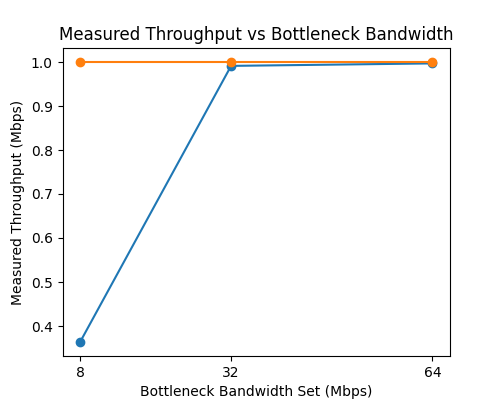
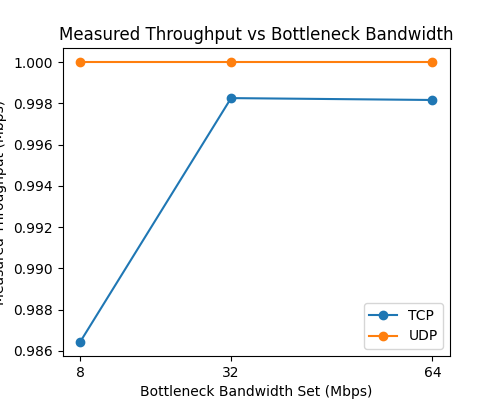
no idea why there is no packet loss

diff --git a/A3/network_bottleneck.py b/A3/network_bottleneck.py
@@ -158,9 +158,9 @@ def run_perf_tests(bw_bottleneck, bw_other):
     h4 = net.get("h4")
 
     # initiliaze a tcp server on the h3 node
-    tcp_server = h3.cmd('sudo python3 server.py -ip 10.0.0.3 -port 5203 &')
+    tcp_server = h3.cmd('sudo python3 server.py -ip 10.0.0.3 -port 5201 &')
     # run the tcp test on the h1 node
-    tcp_test = h1.pexec('sudo python3 client.py -ip 10.0.0.1 -port 5203 -server_ip 10.0.0.3 -test tcp')
+    tcp_test = h1.pexec('sudo python3 client.py -ip 10.0.0.1 -port 5201 -server_ip 10.0.0.3 -test tcp')
 
     # check if an error occured while creating the tcp test
     if tcp_test[2] != 0:
@@ -185,9 +185,10 @@ def run_perf_tests(bw_bottleneck, bw_other):
     
     tcp_file.close()
     # initiliaze a udp server on the h4 node
-    udp_server = h4.cmd('sudo python3 server.py -ip 10.0.0.4 -port 5204 &')
+    udp_server = h4.cmd('sudo python3 server.py -ip 10.0.0.4 -port 5202 &')
     # run the tcp test on the h1 node
-    udp_test = h2.pexec('sudo python3 client.py -ip 10.0.0.2 -port 5204 -server_ip 10.0.0.4 -test udp')
+    udp_test = h2.pexec('sudo python3 client.py -ip 10.0.0.2 -port 5202 -server_ip 10.0.0.4 -test udp')
+    print(udp_test)
     
     # check if an error occured while creating the udp test
     if udp_test[2] != 0:

diff --git a/A3/client.py b/A3/client.py
@@ -37,7 +37,7 @@ def main():
     parser.add_argument("-server_ip", help = "accepts server IP address from command line", required=True)
     parser.add_argument("-test", type=str, help = "accepts type of test client server from command line", required=True)
     ## will default the duration to 60 seconds but can be altered in command line
-    parser.add_argument("-duration", type=int, default=60)
+    parser.add_argument("-duration", type=int, default=5)
     ## can use the command line to not create a JSON output but will default to have JSON output when unspecified
     parser.add_argument("-json_output", type=bool, default=True)
     args = parser.parse_args()

diff --git a/A3/analyze_perf.py b/A3/analyze_perf.py
@@ -44,7 +44,6 @@ def main():
 
     with open('output-udp-32-100.json', 'r') as file:
         udp_test_32 = json.load(file)
-        print(udp_test_32)
     file.close()
 
     with open('output-udp-64-100.json', 'r') as file:
@@ -78,6 +77,7 @@ def main():
     plt.xlabel('Bottleneck Bandwidth Set (Mbps)')
     plt.ylabel('Measured Throughput (Mbps)')
     plt.xticks(bottleneck_bandwidths)
+    plt.legend(['TCP', 'UDP'], loc='lower right')
     
     # Save the plot to analysis.png
     plt.savefig('analysis.png')

diff --git a/A3/README.md b/A3/README.md
@@ -11,9 +11,9 @@ In order to run this code, please ensure that you have Mininet and iPerf properl
 You can check this by running: <br>
 <code>sudo mn --version</code> <br>
 <code>pip show iperf3</code> <br>
-All of the functionality needed to run iPerf tests on a Mininet object can be accessed from <code>network_bottleneck.py</code>, 
-you should not need to enter the <code>server.py</code> or <code>client.py</code> scripts. <br>
-Begin by opening a bash terminal and run the following command: <br>
+All functionality needed to run iPerf tests on a Mininet object can be accessed from <code>network_bottleneck.py</code>, you should not need to enter the <code>server.py</code> or <code>client.py</code> scripts. <br>
+<br> Begin by navigating to to A3 directory. <br>
+Open a bash terminal and run the following command: <br>
 <code>sudo mn -c</code> <br>
 This will ensure that the Mininet's network is clear and prevent errrors in creation and configuration of a new network.<br>
 Then, run the following command: <br>
@@ -25,6 +25,10 @@ Open a bash terminal and run: <br>
 Then, in a new bash terminal, run: <br>
 <code>python3 client.py -ip {client ip address} -port {port_number} -server_ip {ip address of server} -test {network protocol}</code> <br>
 <br>
+You can run <code>analyze_perf.py</code> and get the network analysis in one of two ways. <br>
+(1) Press "Run Python File" in vscode <br>
+(2) Open a new bash terminal and run: <br>
+<code>python3 analyze_perf.py</code>
 <strong>Credit Reel:</strong> <br>
 <em>Madeline Harbaugh (mharbaugh) contributions:</em> <ul>
 <li> Completed Task 3:  Analyzing Network Performance 
